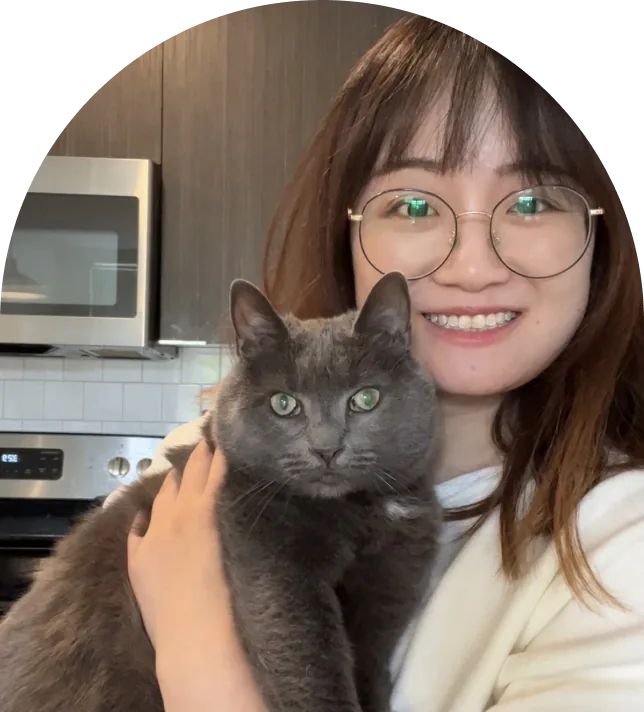
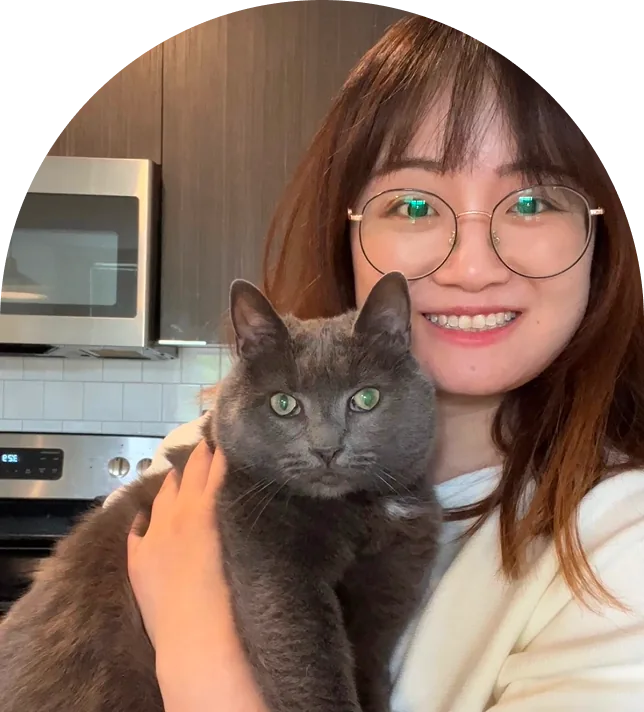
Add Drive pictures to Home, About, Vibe coding, MS Places and M365 ESS pages
Claude-Session: https://claude.ai/code/session_01FCVjPFVi4a25c19P9yiZ95

diff --git a/src/data/caseStudies/ms-places.tsx b/src/data/caseStudies/ms-places.tsx
@@ -11,16 +11,10 @@ const keyStats: Stat[] = [
   { value: '30%', label: 'Engagement & retention' },
 ];
 
-// Figures still to capture from Figma (node id -> planned file under public/images/ms-places/):
-//   2:1666 -> intro-mockups.webp       (after intro, 1280x721)
-//   2:1614 -> problem-stats.webp       (chart row inside "What are the problems?", 1268x242)
-//   2:1781 -> workshops.webp           (after "How did I solve this?", 1280x865)
-//   2:1694 -> key-flows.webp           (after "My design", 1280x1440)
-//   2:1709 -> homepage-iteration.webp  (after "Homepage iteration", 1280x1348)
-//   2:1737 -> delivery-spec.webp, 2:1753 -> delivery-modes.webp (after "Delivery lead")
-//   2:1788 -> design-system.webp       (after "Design system", 1280x865)
-//   2:1794 -> platforms.webp           (after "Result & impact", 1280x580)
-// They are not added as blocks yet so the page has no broken images.
+// The chart row inside "What are the problems?" (Figma node 2:1614, 1268x242) is not in the
+// Drive export folder, so it is not shown yet.
+
+const img = (name: string) => `images/ms-places/${name}.webp`;
 
 const blocks: CaseStudyBlock[] = [
   {
@@ -57,6 +51,11 @@ const blocks: CaseStudyBlock[] = [
   },
   { kind: 'stats', items: keyStats },
   {
+    kind: 'figure',
+    src: img('intro-mockups'),
+    alt: 'Microsoft Places on a phone and on the web, showing the Today view for Building 4 with who is working there and upcoming meetings',
+  },
+  {
     kind: 'section',
     eyebrow: 'Introduction',
     title: 'What are the problems?',
@@ -84,6 +83,11 @@ const blocks: CaseStudyBlock[] = [
     ),
   },
   {
+    kind: 'figure',
+    src: img('workshops'),
+    alt: 'Photos of the team running workshops with sticky notes on whiteboards, above a detailed user journey map of the Places experience',
+  },
+  {
     kind: 'section',
     eyebrow: 'Solution',
     title: 'My design',
@@ -95,6 +99,11 @@ const blocks: CaseStudyBlock[] = [
         Modernize, and Optimize.
       </p>
     ),
+  },
+  {
+    kind: 'figure',
+    src: img('key-flows'),
+    alt: 'Four key mobile flows: 01 Onboarding (choosing in-person days), 02 Homepage, 03 Work plan, 04 Collaborators',
   },
   {
     kind: 'section',
@@ -118,6 +127,11 @@ const blocks: CaseStudyBlock[] = [
     ),
   },
   {
+    kind: 'figure',
+    src: img('homepage-iteration'),
+    alt: 'Mobile homepage iterations leading to the public preview, and the final homepage broken into six cards: Moments, Location, People, Service, Book room/desk and Nearby places',
+  },
+  {
     kind: 'section',
     eyebrow: 'Solution',
     title: 'Delivery lead',
@@ -139,6 +153,16 @@ const blocks: CaseStudyBlock[] = [
     ),
   },
   {
+    kind: 'figure',
+    src: img('delivery-spec'),
+    alt: 'Mobile and web alignment of the Building 4 page, next to design and accessibility spec templates',
+  },
+  {
+    kind: 'figure',
+    src: img('delivery-modes'),
+    alt: 'Dark mode and landscape mode guidelines for the mobile Today screen',
+  },
+  {
     kind: 'section',
     eyebrow: 'Solution',
     title: 'Design system',
@@ -151,6 +175,11 @@ const blocks: CaseStudyBlock[] = [
         the design process faster and more scalable.
       </p>
     ),
+  },
+  {
+    kind: 'figure',
+    src: img('design-system'),
+    alt: 'TPX Design UI Kit for mobile and web: color foundations, the mobile component library in Figma, and how Places design files build on Fluent 2',
   },
   {
     kind: 'section',
@@ -171,13 +200,20 @@ const blocks: CaseStudyBlock[] = [
       </>
     ),
   },
+  {
+    kind: 'figure',
+    src: img('platforms'),
+    alt: 'Microsoft Places across platforms: the mobile app, the website and Microsoft 365 (Outlook calendar)',
+  },
   { kind: 'stats', items: keyStats },
 ];
 
 const msPlaces: CaseStudyContent = {
   tags: ['0→1 Products', 'Mobile lead + Design system'],
-  // TODO: replace with a 2x capture of Figma node 2:1589 at images/ms-places/hero.webp.
-  hero: { src: 'images/home/ms-places.webp', alt: 'Microsoft Places mobile and web experience' },
+  hero: {
+    src: img('hero'),
+    alt: 'Outlook calendar with the Microsoft Places card showing who is in the office and suggesting a day to collaborate in person',
+  },
   blocks,
 };
 

diff --git a/src/data/caseStudies/m365-ess-agent.tsx b/src/data/caseStudies/m365-ess-agent.tsx
@@ -1,12 +1,11 @@
 import type { CaseStudyContent } from '@/components/caseStudy/types';
 
 // Figma frame 2:1799. Text copied from the Figma text layers (bold spans not verified).
-// TODO: figure blocks for 2:1852, 2:1882, 2:1922, 2:1960, 2:1999, 2:2005 and the hero (2:1834)
-// still need screenshots; the Figma MCP call limit blocked them.
+// Pictures are the designer's 2x exports of the Figma frames (ESS-1..10 in Drive).
 const m365EssAgent: CaseStudyContent = {
   tags: ['Think big', 'AI agent project'],
   hero: {
-    src: 'images/home/m365-ess-agent.webp',
+    src: 'images/m365-ess-agent/ess-1.webp',
     alt: 'Employee Self-Service Agent in Microsoft 365 Copilot shown on phone and desktop',
   },
   blocks: [
@@ -55,6 +54,11 @@ const m365EssAgent: CaseStudyContent = {
       ),
     },
     {
+      kind: 'figure',
+      src: 'images/m365-ess-agent/ess-2.webp',
+      alt: 'Chat-based to action-based: the vision concept on a phone next to the Employee Self-Service Agent in Microsoft 365 Copilot submitting a facility request from a photo',
+    },
+    {
       kind: 'section',
       eyebrow: 'Solution',
       title: 'From Insights to Design Strategy',
@@ -78,6 +82,11 @@ const m365EssAgent: CaseStudyContent = {
       ],
     },
     {
+      kind: 'figure',
+      src: 'images/m365-ess-agent/ess-3.webp',
+      alt: 'Three design principles: Productive, Personalized and Contextual, each with a How might we question',
+    },
+    {
       kind: 'section',
       eyebrow: 'Solution',
       title: 'Bringing the Vision to Life',
@@ -92,6 +101,16 @@ const m365EssAgent: CaseStudyContent = {
       ),
     },
     {
+      kind: 'figure',
+      src: 'images/m365-ess-agent/ess-4.webp',
+      alt: 'Storyboards, design screen explorations and the three vision videos: voice interaction with AI on MyHub, a front-end and back-end story, and real-time video chatting with AR wayfinding',
+    },
+    {
+      kind: 'figure',
+      src: 'images/m365-ess-agent/ess-5.webp',
+      alt: 'Vision video screens showing mobile Copilot flows for commute, dining, ticketing and AR wayfinding alongside the desktop Copilot experience',
+    },
+    {
       kind: 'section',
       eyebrow: 'Outcome',
       title: 'Result & impact',
@@ -101,6 +120,21 @@ const m365EssAgent: CaseStudyContent = {
           Facilities roadmaps and building stakeholder support to reinvest in the MyHub app with new AI capabilities.
         </p>
       ),
+    },
+    {
+      kind: 'figure',
+      src: 'images/m365-ess-agent/ess-6.webp',
+      alt: 'My ideas rolled to the ESS roadmap: before and after image-based ticket creation in the ESS Agent',
+    },
+    {
+      kind: 'figure',
+      src: 'images/m365-ess-agent/ess-7.webp',
+      alt: 'My ideas impacted the 15-year-old MS facility portal: before and after redesign of the facilities request site',
+    },
+    {
+      kind: 'figure',
+      src: 'images/m365-ess-agent/ess-8.webp',
+      alt: 'My ideas convinced leadership to re-invest in the MyHub app with AI capabilities: the old dashboard before and the new AI-powered facility request flow after',
     },
     {
       kind: 'section',
@@ -114,6 +148,16 @@ const m365EssAgent: CaseStudyContent = {
           a simple, end-to-end AI interaction.
         </p>
       ),
+    },
+    {
+      kind: 'figure',
+      src: 'images/m365-ess-agent/ess-9.webp',
+      alt: 'Facility ticket created in about 30 seconds from a photo of a thermostat, shown in Campus Copilot on mobile and the Employee Self-Service Agent on desktop',
+    },
+    {
+      kind: 'figure',
+      src: 'images/m365-ess-agent/ess-10.webp',
+      alt: 'Overview of the many design screens produced across the ESS Agent vision work',
     },
   ],
 };

diff --git a/src/components/pages/About.tsx b/src/components/pages/About.tsx
@@ -45,9 +45,9 @@ const Photo = ({ src, alt, width, height, radius = 20 }: PhotoProps) => {
 
 // Photo row 2:2834 (three photos side by side, 1280px total).
 const rowPhotos = [
-  { src: 'images/about/photo-1.webp', alt: 'Rui portrait', width: 423, height: 427 },
-  { src: 'images/about/photo-2.webp', alt: 'Rui at an event', width: 347, height: 427 },
-  { src: 'images/about/photo-3.webp', alt: 'Rui with friends', width: 464, height: 427 },
+  { src: 'images/about/photo-1.webp', alt: 'Rui smiling with a peace sign next to her grey cat under cherry blossoms', width: 423, height: 427 },
+  { src: 'images/about/photo-2.webp', alt: 'Rui striking a pose beside the Pikes Peak Summit marker', width: 347, height: 427 },
+  { src: 'images/about/photo-3.webp', alt: 'Rui posing in front of framed illustrations at an art exhibition', width: 464, height: 427 },
 ];
 
 const sectionTitleSx = { fontSize: { xs: 32, md: 40 }, fontWeight: 700, lineHeight: 'normal' };
@@ -155,14 +155,14 @@ const About = () => (
 
     {/* Two-column blocks 2:2804 */}
     <TwoColumn
-      picture={{ src: 'images/about/at-work.webp', alt: 'Collage of Rui at work', width: 492, height: 427 }}
+      picture={{ src: 'images/about/at-work.webp', alt: 'Collage of Rui with colleagues: a team painting event, a group photo at a design conference, signing a conference message wall, and a summer team outing', width: 492, height: 427 }}
       title="At Work"
       body="I’m passionate about turning complex problems into simple, thoughtful experiences. I love talking with users, uncovering the “why” behind their needs, and using systems thinking to design solutions that scale. I’m also curious about new ways of building—using AI and vibe coding to quickly turn ideas into prototypes and learn through making. Based in Redmond, WA, designing at the intersection of people, systems, and AI."
     />
     <TwoColumn
       picture={{
         src: 'images/about/outside-of-work.webp',
-        alt: 'Collage of Rui volunteering, hiking, foraging and with her cat',
+        alt: 'Collage of life outside work: volunteering at a cat shelter, the Asian Women Summit, walking her cat, hand-painted pet crafts, mushrooms, a frozen waterfall hike, Mount Rainier wildflowers, clamming on the beach, and her cat’s birthday',
         width: 492,
         height: 426,
       }}

diff --git a/src/components/pages/VibeCoding.tsx b/src/components/pages/VibeCoding.tsx
@@ -87,7 +87,7 @@ const VibeCoding = () => (
       media={
         <Shot
           src="images/vibe-coding/skills-collage.webp"
-          alt="Collage of images made with custom AI style skills: cartoon stickers, flat illustrations and wool-felt art"
+          alt="Collage of images made with custom AI style skills: a cozy cartoon living room with a grey cat and matching stickers, flat illustrations of modern buildings, and wool-felt fruit"
           width={492}
           height={477}
         />
@@ -104,14 +104,14 @@ const VibeCoding = () => (
     <Row
       title="Open Meow AI"
       media={
-        <Box sx={{ display: 'flex', gap: { xs: 2, md: '23px' }, maxWidth: 504 }}>
-          <Box sx={{ flex: '238 1 0', minWidth: 0 }}>
-            <Shot src="images/vibe-coding/open-meow-1.webp" alt="Open Meow AI app screen" width={238} height={461} />
-          </Box>
-          <Box sx={{ flex: '243 1 0', minWidth: 0 }}>
-            <Shot src="images/vibe-coding/open-meow-2.webp" alt="Open Meow AI app screen" width={243} height={461} />
-          </Box>
-        </Box>
+        // Figma shows two phone screens here (2:2902 and 2:2903); Drive only has one ("Open meow.png"), so the
+        // second screen is left out until it is exported.
+        <Shot
+          src="images/vibe-coding/open-meow-1.webp"
+          alt="Open Meow AI app's AI Analyzer screen, with Photo, Video and Sound tabs, a microphone button to record your cat's meow and an Analyze with AI button"
+          width={253}
+          height={471}
+        />
       }
     >
       <p>
